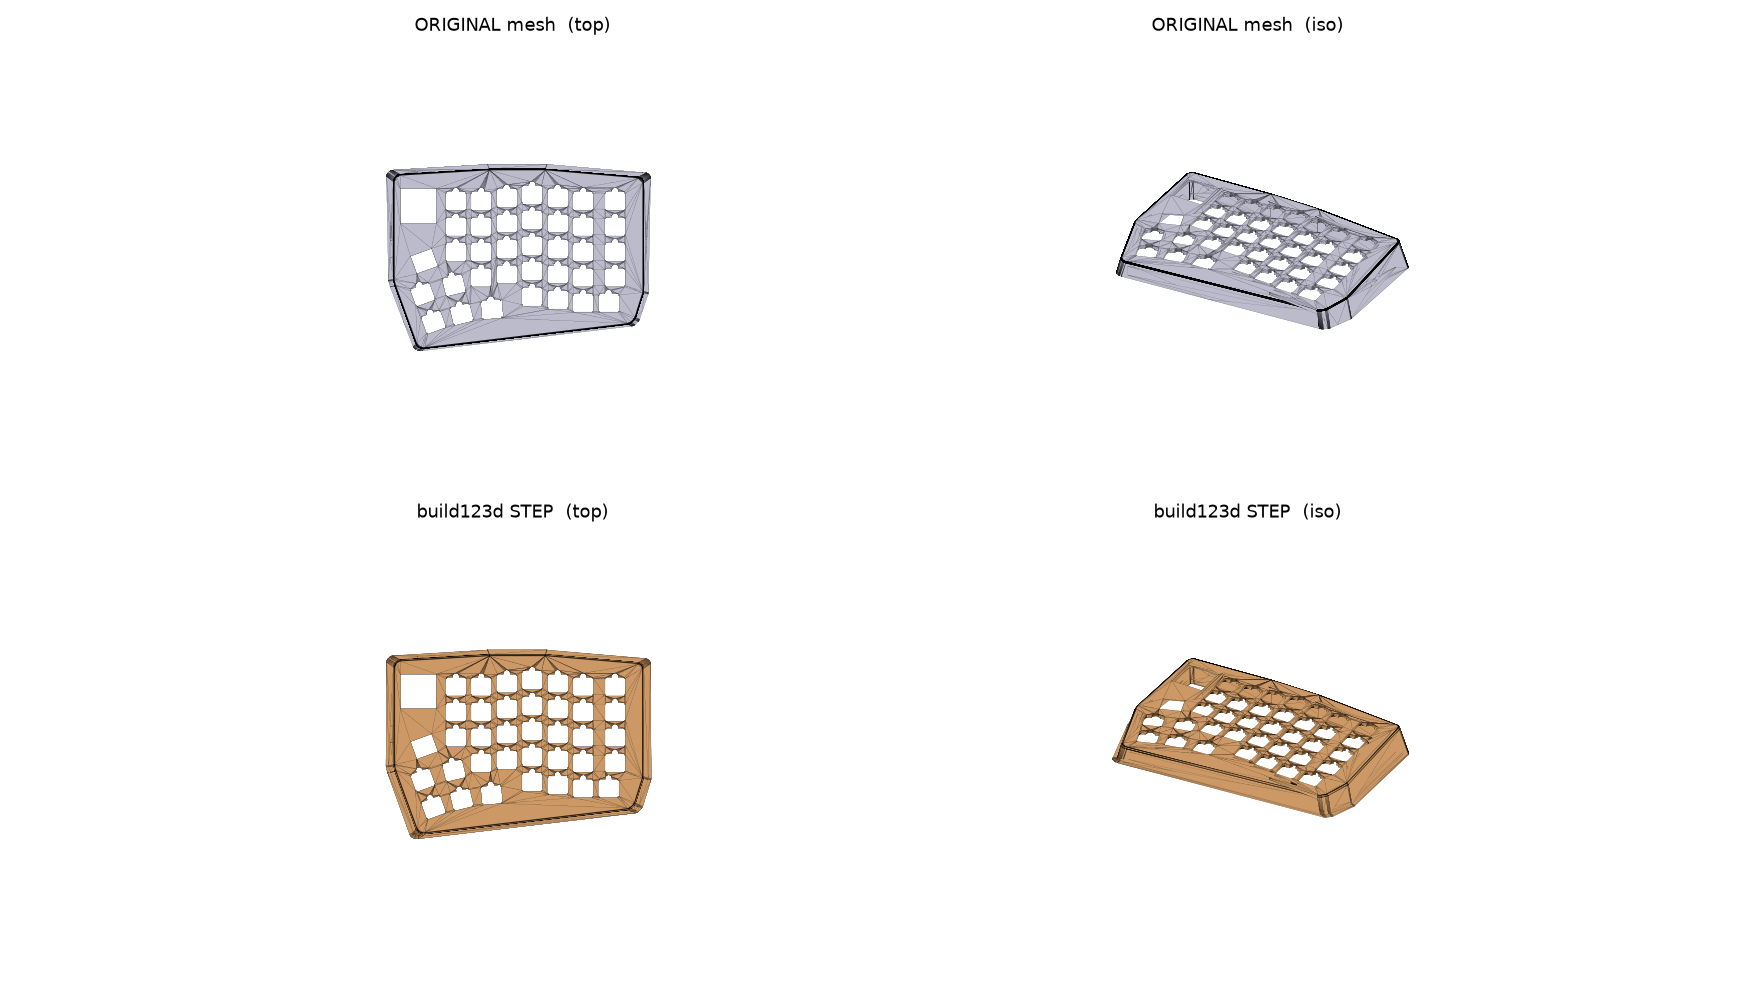
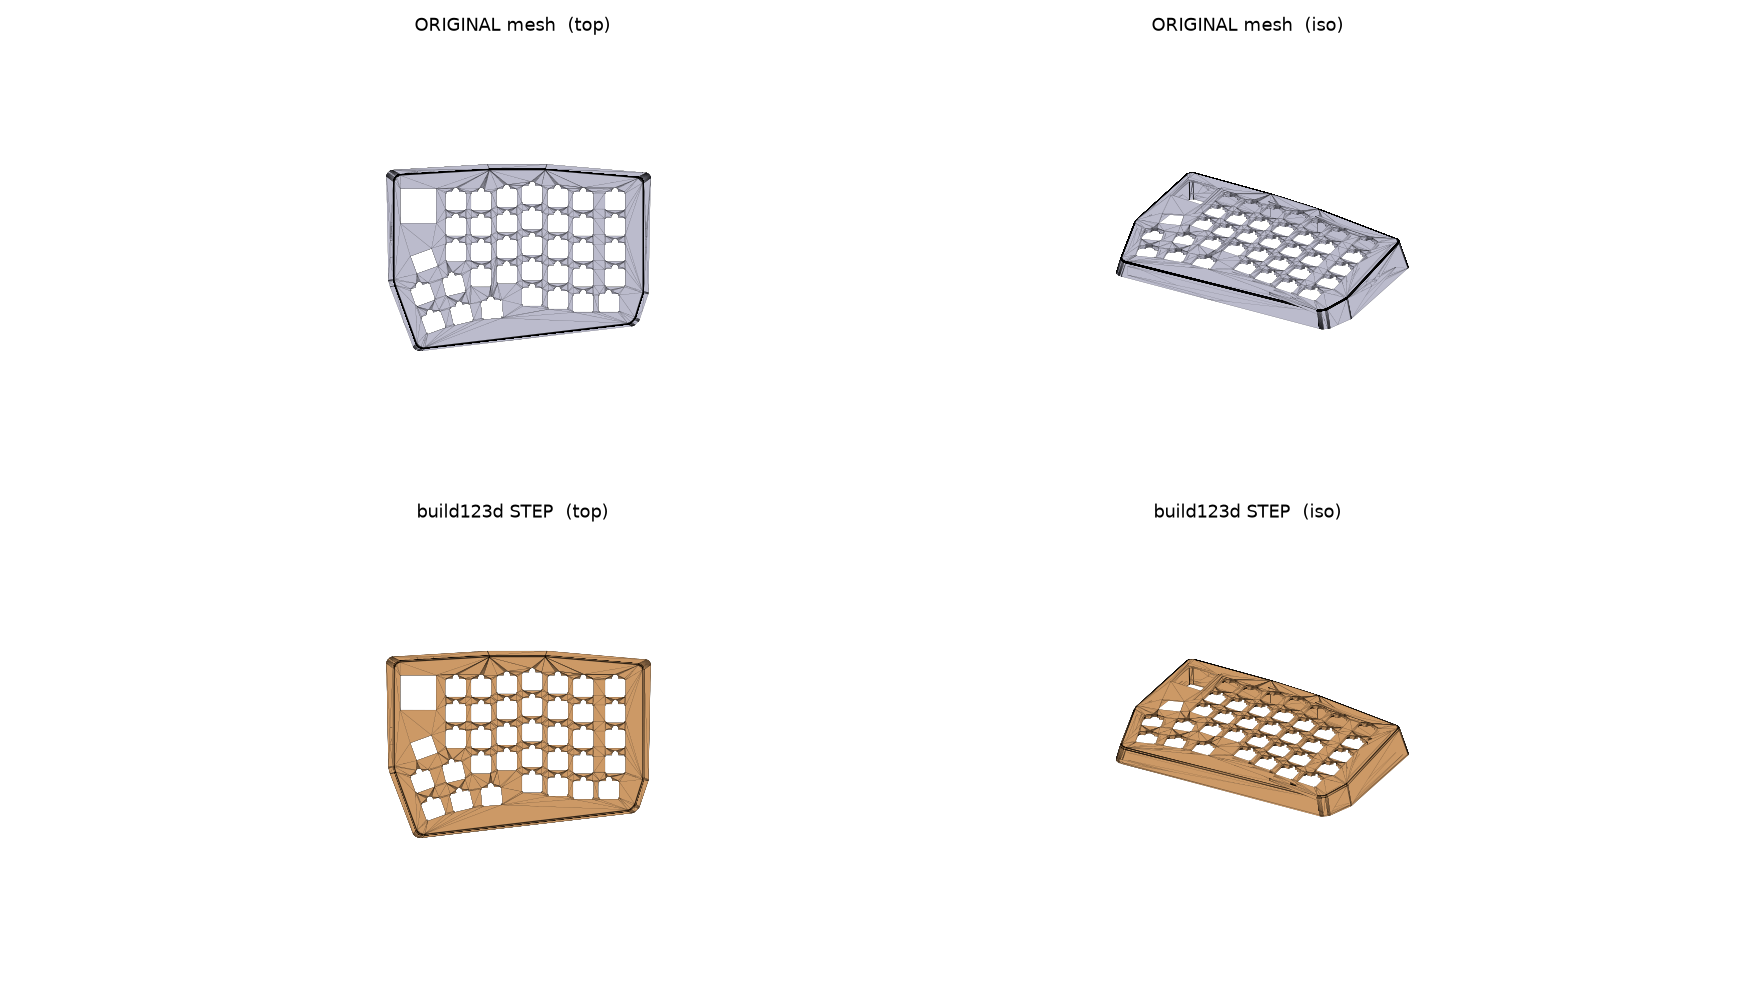
case/step: bottom lip follows the real wedge-plane wall, not the straight-cut silhouette
The lip was built from the scale(1.08) loft-bottom silhouette (the STRAIGHT-cut
cross-section) extruded perpendicular to the wedge plane. Because the wall tapers,
the wedge plane meets a narrower wall on the raised/back side, so that wide
footprint made the lip stick out past the wall exactly where the case gets thinner
("expands vertical where the geometry gets thinner").

Fix: build the lip from the ACTUAL wall cross-section at the wedge plane -- flatten
the plane, slice the real wall just above it (part & slab), and translate that
slice straight down by LIP_DROP. The slice follows the taper, so the lip hugs the
wall on every edge (verified front + back against the reference). The recess cut
still uses the clean convex footprint (a cut tolerates a slightly-off footprint).

Still solids=1, shell closed=True; all 36 LED circles remain open (0 crossings).

Claude-Session: https://claude.ai/code/session_015tyAeCRWQVAqgwYfPjdQFr

Changed region(s): [[0.2188, 0.6364, 0.375, 0.8485], [0.625, 0.6667, 0.8125, 0.8182]]

diff --git a/case/step/case_model.py b/case/step/case_model.py
@@ -191,18 +191,21 @@ def build_right():
 def add_bottom_rabbet(part):
     """Add the bottom-plate rabbet (lip + inner ledge) around the wedge-cut opening.
 
-    The lip is an EXTRUSION FROM THE CUT-OFF PLANE, perpendicular to it -- not a
-    vertical silhouette that would stick out past the tapered wall. We rotate the part
-    so the slanted wedge bottom is horizontal, build the outer-wall band from the
-    **clean convex** outer footprint (scale(1.08) of pcb_shape_convex, i.e. the loft's
-    bottom silhouette), extrude that band DOWN by LIP_DROP (the lip, perpendicular to
-    the cut plane) and recess the inner region so the ledge sits RABBET_UP above the
-    plane, then rotate back.
+    The lip must be the ACTUAL wall cross-section AT THE WEDGE PLANE, extended
+    perpendicular to that plane -- NOT the straight-cut (loft-bottom) silhouette
+    extruded at the wedge angle. The wall tapers, so the wedge plane (higher on the
+    raised/back side) meets a *narrower* wall there; using the wide loft-bottom
+    silhouette makes the lip stick out past the wall exactly where the case gets
+    thinner. So: flatten the wedge plane to horizontal, take a thin slice of the real
+    wall just above it (`part & slab` -> the true wedge-plane section), translate that
+    slice straight down by LIP_DROP (perpendicular to the plane) for the lip, then
+    recess the inner region up so the ledge sits RABBET_UP above the plane. The slice
+    follows the taper exactly, so the lip hugs the wall on every edge.
 
-    Clean convex tools are essential: offsetting the boolean-messy extracted bottom
-    wire leaves free edges, and the STEP then exports as an OPEN SHELL (0 solids) whose
-    bottom faces read inward in a viewer. The convex footprint booleans cleanly into a
-    single closed solid. Returns the part unchanged on any failure.
+    (Using clean convex tools for the *cut* is fine -- a slightly-off recess footprint
+    only varies the ledge width; a slightly-off *lip* footprint sticks out. And never
+    offset the boolean-messy extracted bottom wire: it leaves free edges -> open shell.)
+    Returns the part unchanged on any failure.
     """
     try:
         # locate the wedge bottom face (lowest downward-facing face) -> flatten rotation
@@ -225,15 +228,18 @@ def add_bottom_rabbet(part):
         z0 = min(f.bounding_box().min.Z for f in p.faces()
                  if (_safe_normal(f) is not None and _safe_normal(f).Z < -0.3))
 
-        # clean convex outer footprint at the cut plane (= the loft bottom silhouette)
-        outer = scale(pcb_shape_convex(0.0), by=1.08).moved(Location((X_SHIFT, 0, z0)))
-        inner = offset(outer, amount=-LIP_W, kind=Kind.ARC)
-        band = outer - inner
-        lip = extrude(band, amount=-LIP_DROP)                        # lip: from the plane, down
-        # recess the inner region: from below the lip up to the ledge (z0 + RABBET_UP)
+        # LIP: slice the real wall at the wedge plane and extend it straight down.
+        H = LIP_DROP + 0.5
+        slab = Box(400, 400, H).moved(Location((0, 0, z0 + H / 2)))
+        wall_slice = p & slab                        # true wedge-plane wall section
+        lip = wall_slice.moved(Location((0, 0, -LIP_DROP)))
+        p = p + lip
+        # LEDGE: recess the inner region up (a cut tolerates a slightly-off footprint)
+        inner = offset(scale(pcb_shape_convex(0.0), by=1.08), amount=-LIP_W,
+                       kind=Kind.ARC).moved(Location((X_SHIFT, 0, z0)))
         rab = extrude(inner.moved(Location((0, 0, -LIP_DROP - 0.05))),
                       amount=LIP_DROP + RABBET_UP + 0.05)
-        p = (p + lip) - rab
+        p = p - rab
         return p.rotate(Rax, -ang)                    # rotate back
     except Exception as e:
         print("add_bottom_rabbet skipped:", e)

diff --git a/case/step/README.md b/case/step/README.md
@@ -70,15 +70,21 @@ The reference `parts/metal-case-*.step` adds, around the wedge-cut bottom openin
 the *"small extrusion perpendicular to the cut-off"* (an outer **lip** dropping below the
 wedge plane) plus the *"inner cut-out rim"* (a recessed **ledge** the plate rests on).
 
-`add_bottom_rabbet()` reproduces it. The lip is an **extrusion from the cut-off plane,
-perpendicular to it** — *not* a vertical silhouette. It rotates the part so the slanted
-wedge bottom is horizontal, builds the outer-wall band from the **clean convex** outer
-footprint (`scale(1.08)` of `pcb_shape_convex`, i.e. the loft's bottom silhouette),
-extrudes that band **down** `LIP_DROP` (the lip, perpendicular to the plane) and recesses
-the inner region so the ledge sits `RABBET_UP` above the plane (pocket = `LIP_DROP+RABBET_UP`
-≈ 2 mm = `case_bottom_thickness`), then rotates back. Parameters at the top of
-`case_model.py` — measured from the reference (mine frame): wedge bottom −6.21, lip bottom
-**−7.19**, ledge **−5.1**:
+`add_bottom_rabbet()` reproduces it. The lip must be the **actual wall cross-section at
+the wedge plane**, extended perpendicular to that plane. It flattens the wedge plane to
+horizontal, takes a thin slice of the **real wall** just above it (`part & slab` — the true
+wedge-plane section, which follows the taper), translates that slice **down** `LIP_DROP` for
+the lip, then recesses the inner region so the ledge sits `RABBET_UP` above the plane
+(pocket = `LIP_DROP+RABBET_UP` ≈ 2 mm = `case_bottom_thickness`), and rotates back.
+
+⚠️ **Do not build the lip from the `scale(1.08)` loft-bottom silhouette (the straight-cut
+cross-section).** The wall tapers, so the wedge plane meets a *narrower* wall on the raised
+(back) side; the wide straight-cut footprint then makes the lip **stick out past the wall
+exactly where the case gets thinner**. Slicing the real wall (`part & slab`) hugs it on
+every edge. (The recess *cut* can still use the clean `scale(1.08)` footprint — a slightly
+off cut only changes the ledge width; only the added *lip* must match the wall.) Parameters
+at the top of `case_model.py` — measured from the reference (mine frame): wedge bottom
+−6.21, lip bottom **−7.19**, ledge **−5.1**:
 
 ```python
 WITH_BOTTOM_RABBET = True